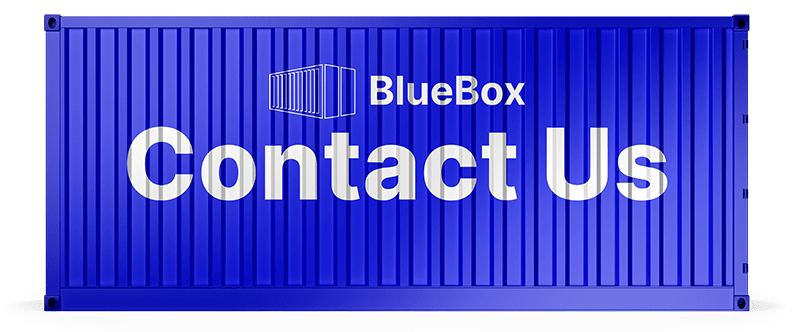
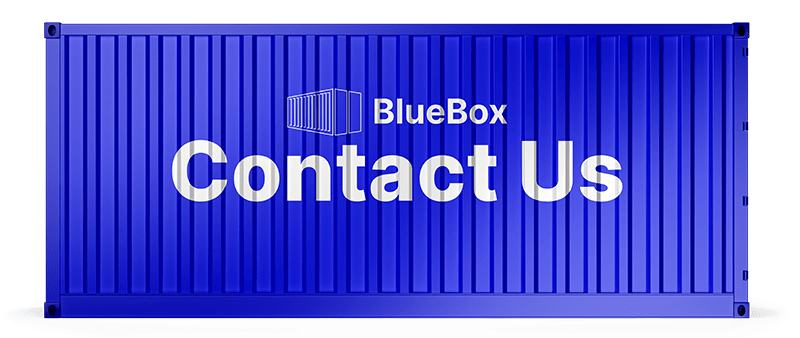
Update About/contact hero imgs | contact form

diff --git a/pages/Contact-Us.js b/pages/Contact-Us.js
@@ -14,14 +14,14 @@ export default function ContactUs() {
                 priority
               />
               <h3 className="text-center lg:w-10/12 mx-auto lg:text-5xl md:text-5xl sm:text-base font-extrabold text-black">
-                We are here to assist you with any inquiries or storage needs
-                you may have.
+                We are here to assist you with inquiries or storage needs you
+                may have.
               </h3>
             </div>
           </div>
         </div>
         <div className="w-11/12 mx-auto lg:my-40 md:my-36 sm:my-24 antialiased">
-          <div className="grid lg:grid-cols-2 lg:gap-24">
+          <div className="grid lg:grid-cols-2 lg:gap-24 md:gap-24 sm:gap-24">
             <div>
               <h4 className="lg:text-4xl md:text-4xl sm:text-3xl font-extrabold text-black mb-2">
                 Blue Box Storage
@@ -43,7 +43,64 @@ export default function ContactUs() {
                 Monday - Friday: 9:00am to 6:00pm
               </p>
             </div>
-            <div>BB</div>
+            <div>
+              <div className="bg-bkgGray lg:py-12 lg:px-8">
+                <h4>Drop Us a message & we'll be back</h4>
+                <div className="grid grid-cols-1 gap-6">
+                  <label className="block">
+                    <span className="pl-2">Full name</span>
+                    <input
+                      type="text"
+                      class="
+                    block
+                    w-80
+                    mt-1
+                    rounded-md
+                    bg-gray-100
+                    border-transparent
+                    focus:border-gray-500 focus:bg-white focus:ring-0
+                  "
+                      placeholder=""
+                    ></input>
+                  </label>
+                  <label className="block">
+                    <span className="pl-2">Your Email</span>
+                    <input
+                      type="email"
+                      class="
+                    mt-1
+                    block
+                    w-80
+                    rounded-md
+                    bg-gray-100
+                    border-transparent
+                    focus:border-gray-500 focus:bg-white focus:ring-0
+                  "
+                      placeholder="john@example.com"
+                    ></input>
+                  </label>
+                  <label className="block">
+                    <span className="pl-2">What is you're enquiry</span>
+                    <select
+                      class="
+                    block
+                    w-80
+                    mt-1
+                    rounded-md
+                    bg-gray-100
+                    border-transparent
+                    focus:border-gray-500 focus:bg-white focus:ring-0
+                  "
+                    >
+                      <option>Gerneral</option>
+                      <option>Storage Rental</option>
+                      <option>Accounts</option>
+                      <option>Other</option>
+                    </select>
+                  </label>
+                </div>
+              </div>
+            </div>
           </div>
         </div>
       </Layout>

diff --git a/pages/About-Us.js b/pages/About-Us.js
@@ -1,7 +1,7 @@
 import Image from "next/image";
 import Layout from "@/components/Layout";
 
-import aboutHeroImgA from "../public/AboutHeroImgA.png";
+import aboutUs from "../public/AboutUs.png";
 import Security from "@/components/Security";
 import Testimonials from "@/components/Testimonials/Testimonials";
 
@@ -12,7 +12,7 @@ export default function AboutUs() {
         <div className="w-11/12 mx-auto lg:py-16 lg:px-16 md:py-12 md:px-16 sm:px-4 sm:py-8 bg-gradient-to-r from-gradientBlue to-gradientWhite lg:rounded-xl md:rounded-md sm:rounded-md lg:mt-8 md:mt-8 sm:mt-4">
           <div className="w-10/12 sm:w-full mx-auto antialiased">
             <Image
-              src={aboutHeroImgA}
+              src={aboutUs}
               alt="about us image blue box storage"
               priority
             />
